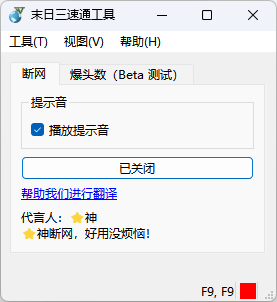
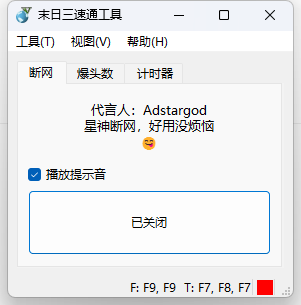
[doc]更新README和截图

diff --git a/Act3SpeedrunTool/en.ts b/Act3SpeedrunTool/en.ts
@@ -127,10 +127,14 @@ AdstarGod Firewall, easy to use
         <translation>Display info</translation>
     </message>
     <message>
+        <source>服务器</source>
+        <translation type="vanished">Server</translation>
+    </message>
+    <message>
         <location filename="MainWindow.ui" line="266"/>
         <location filename="../build-MinSizeRel/Act3SpeedrunTool_autogen/include/ui_MainWindow.h" line="302"/>
-        <source>服务器</source>
-        <translation>Server</translation>
+        <source>多端显示（开发中）</source>
+        <translation>Multi-end display (developing)</translation>
     </message>
     <message>
         <location filename="MainWindow.ui" line="287"/>
@@ -356,7 +360,7 @@ AdstarGod Firewall, easy to use
     <message>
         <location filename="main.cpp" line="19"/>
         <source>末日三速通工具</source>
-        <translation>ACT3 Speedrun Tool</translation>
+        <translation>Act3 Speedrun Tool</translation>
     </message>
     <message>
         <location filename="main.cpp" line="23"/>

diff --git a/Act3SpeedrunTool/main.cpp b/Act3SpeedrunTool/main.cpp
@@ -17,7 +17,7 @@ int main(int argc, char* argv[])
     QApplication::setWindowIcon(QIcon(":/icon.png"));
     QApplication::setOrganizationName("SkyD666");
     QApplication::setApplicationName(QObject::tr("末日三速通工具"));
-    QApplication::setApplicationVersion("4.0-beta01");
+    QApplication::setApplicationVersion("4.0");
 
     if (QApplication::applicationVersion() != GlobalData::version) {
         QMessageBox::critical(nullptr, QString(), QObject::tr("*** 应用版本变更，请认真检查各项配置（热键、外观、提示音等）是否需要重新设置！***"));

diff --git a/doc/README/README-zh-rCN.md b/doc/README/README-zh-rCN.md
@@ -29,12 +29,24 @@
 </div>
 
 
+## 🎉 主要功能
+
+1. 支持统计任务内**爆头数量**（不统计爆头路人、不统计击杀重甲/天基炮/埃万）
+2. 支持对特定的程序**快速断网**（快捷键）
+3. 支持手动**计时**（快捷键）
+4. 支持爆头数/计时器**显示在屏幕上**（仅适用于窗口化或者无边框）
+5. ......
+
 
 ## 🤩 应用截图
 
-![ic_main_window_firewall](../../image/zh-rCN/ic_main_window_firewall.png) ![ic_main_window_headshot](../../image/zh-rCN/ic_main_window_headshot.png)
-![ic_setting_dialog_hotkey](../../image/zh-rCN/ic_setting_dialog_hotkey.png) ![ic_setting_dialog_headshot](../../image/zh-rCN/ic_setting_dialog_headshot.png)
-![ic_setting_dialog_sound](../../image/zh-rCN/ic_setting_dialog_sound.png) ![ic_setting_dialog_language](../../image/zh-rCN/ic_setting_dialog_language.png)
+![ic_main_window_firewall](../../image/zh-rCN/ic_main_window_firewall.png) ![ic_main_window_headshot](../../image/zh-rCN/ic_main_window_headshot.png) ![ic_main_window_timer](../../image/zh-rCN/ic_main_window_timer.png)
+![ic_setting_dialog_display_info_content](../../image/zh-rCN/ic_setting_dialog_display_info_content.png)
+![ic_setting_dialog_display_info_window](../../image/zh-rCN/ic_setting_dialog_display_info_window.png)
+![ic_setting_dialog_firewall](../../image/zh-rCN/ic_setting_dialog_firewall.png)
+![ic_setting_dialog_headshot](../../image/zh-rCN/ic_setting_dialog_headshot.png)
+![ic_setting_dialog_timer](../../image/zh-rCN/ic_setting_dialog_timer.png)
+![ic_setting_dialog_language](../../image/zh-rCN/ic_setting_dialog_language.png)
 
 ## ✨ 其他作品
 

diff --git a/README.md b/README.md
@@ -32,13 +32,23 @@
 </div>
 
 
+## 🎉 Features
 
+1. Support tracking the number of **headshots** in the mission (excluding headshots on civilians and killing Juggernaut/Orbital Canon/Avon Hertz).
+2. Support **fast disconnection** of specific programs (hotkey).
+3. Support manual **timing** (hotkey).
+4. Support displaying the headshot count/timer **on the screen** (only applicable to windowed or borderless mode).
+5. ......
 
 ## 🤩 Screenshots
 
-![ic_main_window_firewall](image/en/ic_main_window_firewall.png) ![ic_main_window_headshot](image/en/ic_main_window_headshot.png)
-![ic_setting_dialog_hotkey](image/en/ic_setting_dialog_hotkey.png) ![ic_setting_dialog_headshot](image/en/ic_setting_dialog_headshot.png)
-![ic_setting_dialog_sound](image/en/ic_setting_dialog_sound.png) ![ic_setting_dialog_language](image/en/ic_setting_dialog_language.png)
+![ic_main_window_firewall](image/en/ic_main_window_firewall.png) ![ic_main_window_headshot](image/en/ic_main_window_headshot.png) ![ic_main_window_timer](image/en/ic_main_window_timer.png)
+![ic_setting_dialog_display_info_content](image/en/ic_setting_dialog_display_info_content.png)
+![ic_setting_dialog_display_info_window](image/en/ic_setting_dialog_display_info_window.png)
+![ic_setting_dialog_firewall](image/en/ic_setting_dialog_firewall.png)
+![ic_setting_dialog_headshot](image/en/ic_setting_dialog_headshot.png)
+![ic_setting_dialog_timer](image/en/ic_setting_dialog_timer.png)
+![ic_setting_dialog_language](image/en/ic_setting_dialog_language.png)
 
 ## ✨ Other works
 
